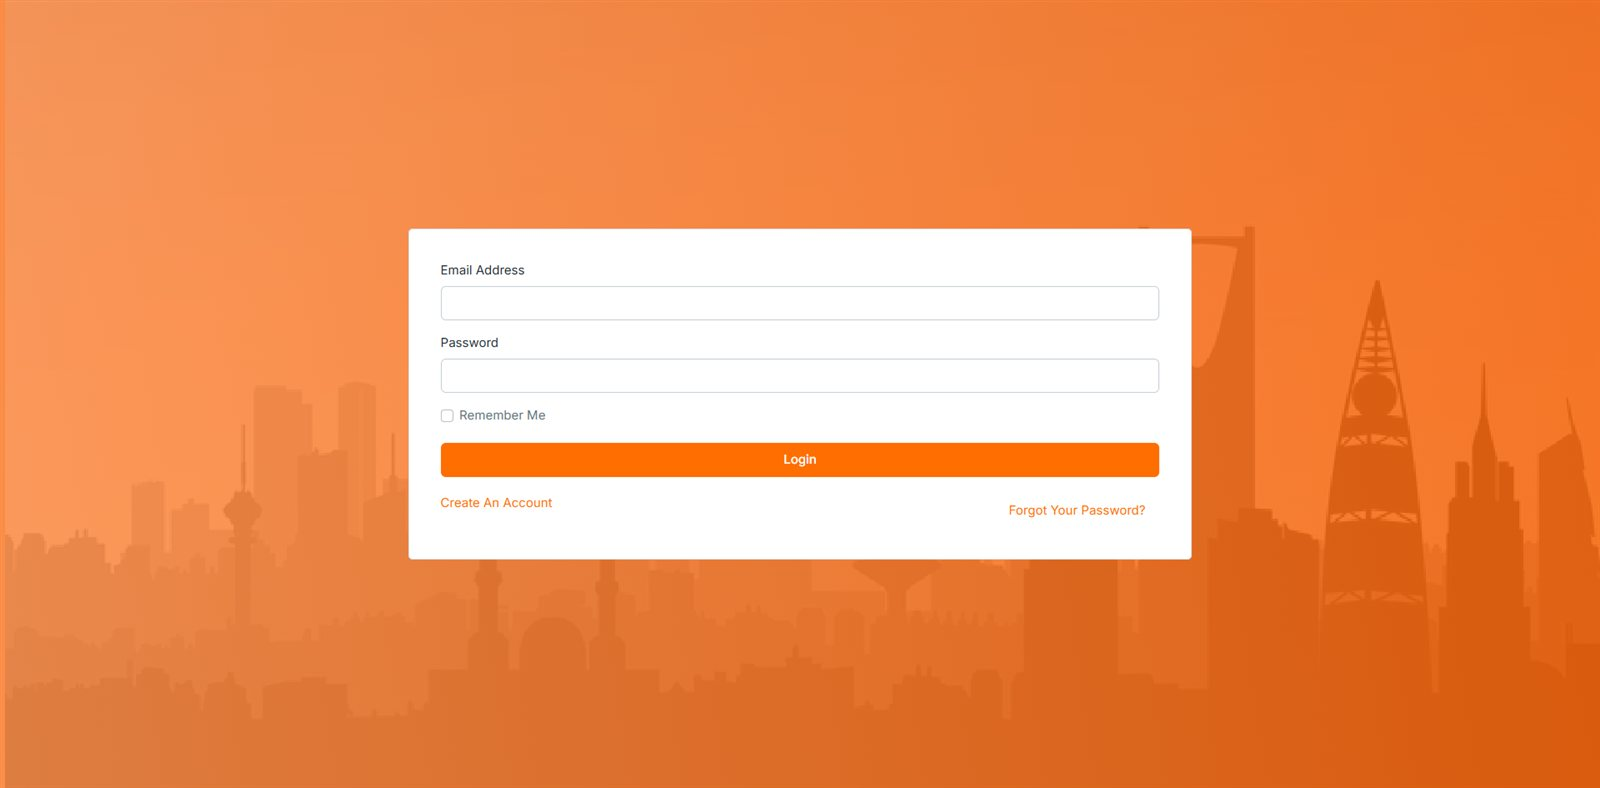
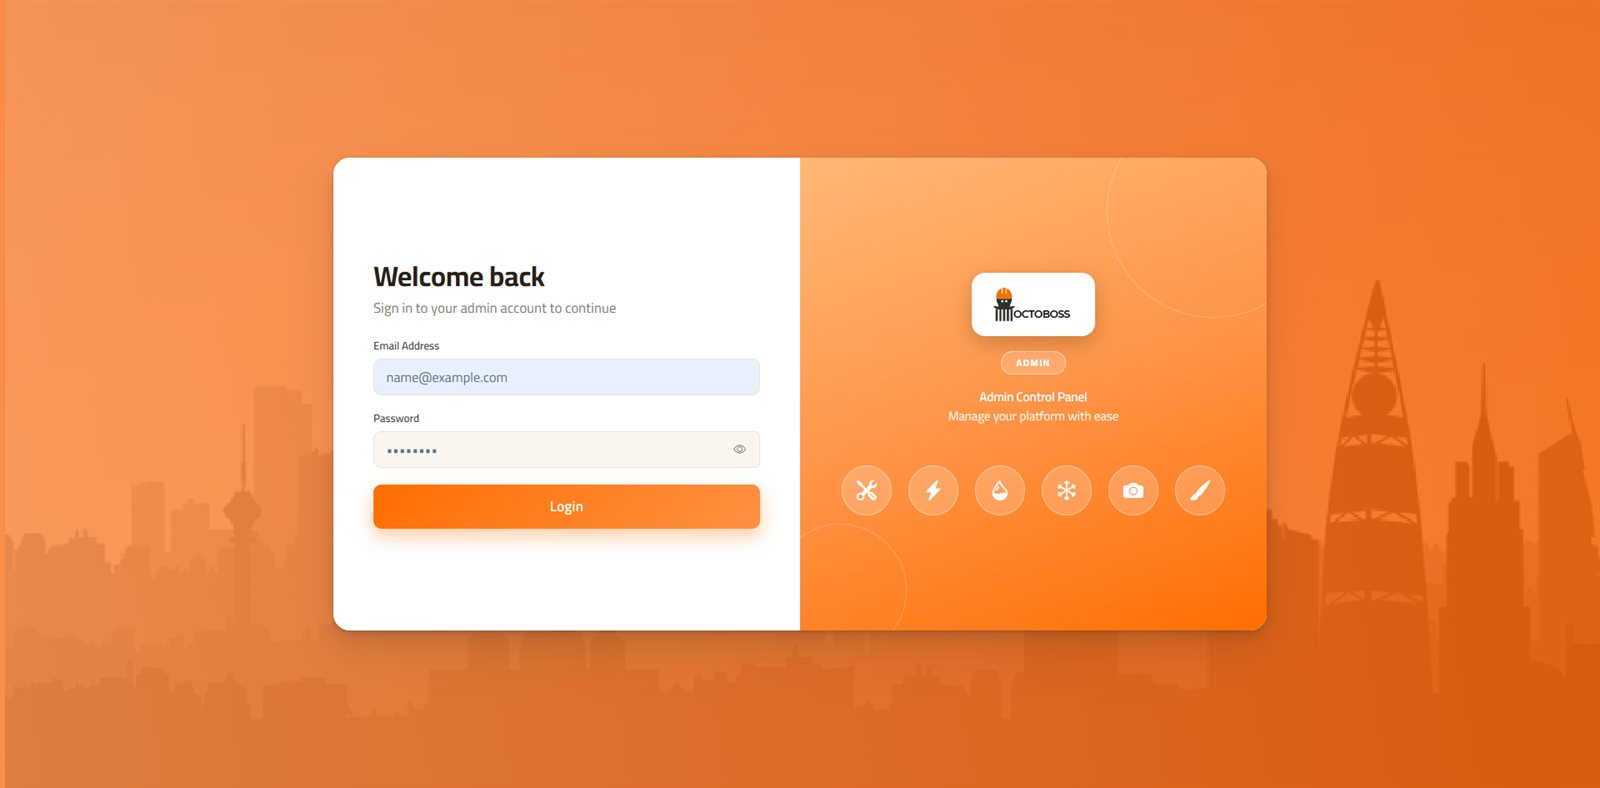
feat: Replace OctoBoss admin login screenshot with the new design

Changed region(s): [[0.1875, 0.1827, 0.8125, 0.8223]]

diff --git a/js/script.js b/js/script.js
@@ -25,7 +25,7 @@ const projects = [
     link: "https://octoboos.nahrdev.com/",
     images: [
       { src: "assets/projects/octoboss/landing.jpg?v=2", captionEn: "Marketing landing page (full page)", captionAr: "الصفحة الرئيسية التسويقية (كاملة)", path: "octoboos.nahrdev.com" },
-      { src: "assets/projects/octoboss/login.jpg", captionEn: "Admin login", captionAr: "تسجيل دخول الأدمن", path: "octoboos.nahrdev.com/login" },
+      { src: "assets/projects/octoboss/login.jpg?v=2", captionEn: "Admin login", captionAr: "تسجيل دخول الأدمن", path: "octoboos.nahrdev.com/login" },
       { src: "assets/projects/octoboss/dashboard.png", captionEn: "Admin dashboard", captionAr: "لوحة تحكم الأدمن", path: "octoboos.nahrdev.com/admin/home" },
       { src: "assets/projects/octoboss/tickets.png", captionEn: "Ticket lifecycle management", captionAr: "إدارة دورة حياة التذاكر", path: "octoboos.nahrdev.com/admin/ticket" },
       { src: "assets/projects/octoboss/workers.png", captionEn: "Worker management", captionAr: "إدارة العمال", path: "octoboos.nahrdev.com/admin/worker" }
